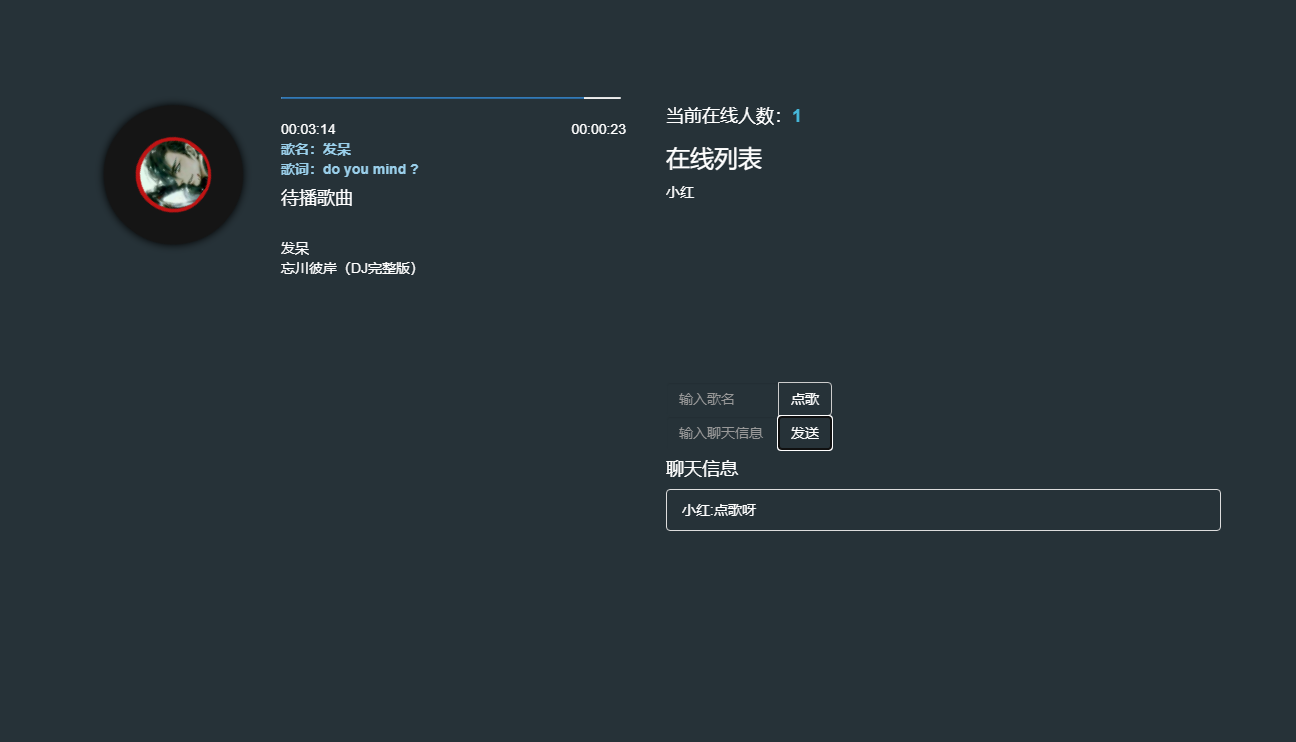
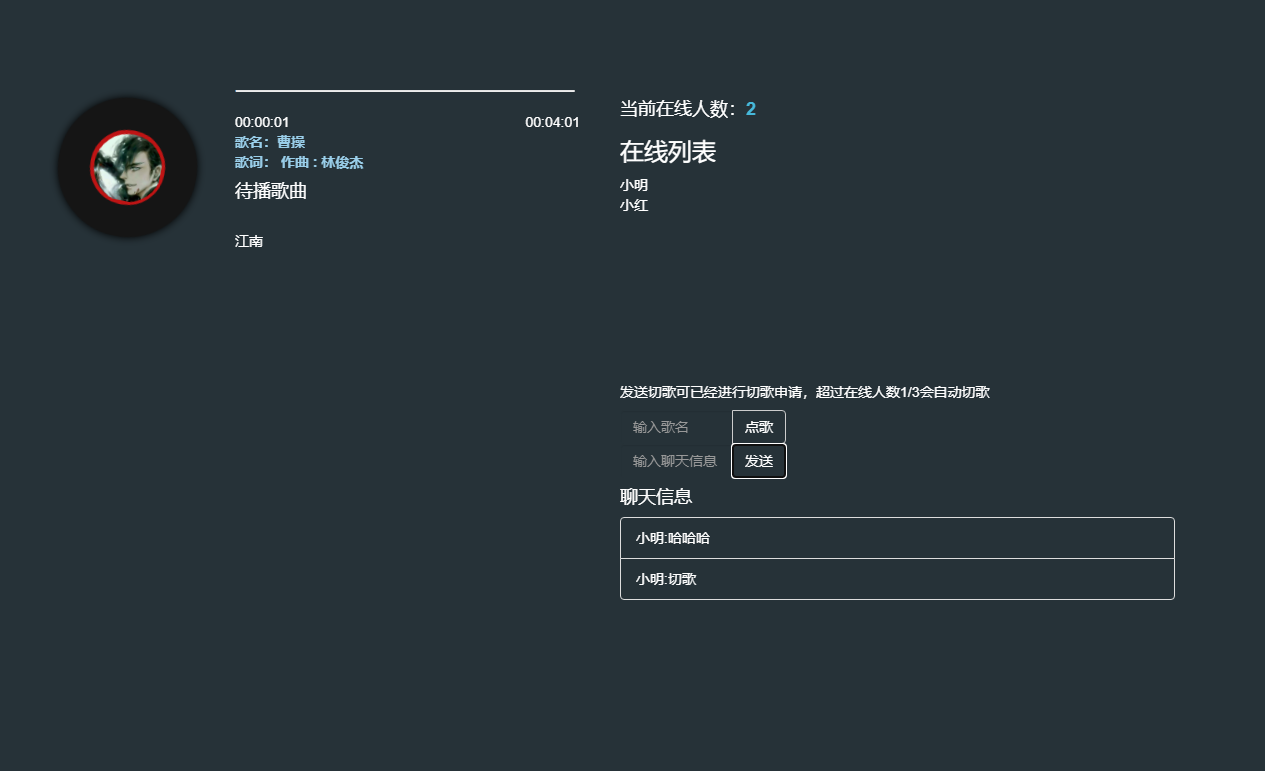
更新

Changed region(s): [[0.0308, 0.093, 0.6166, 0.372], [0.4933, 0.496, 0.9249, 0.7749]]

diff --git a/README.md b/README.md
@@ -6,6 +6,13 @@ Music
 
 使用控制器-》方法的形式去处理websocket客户端消息
 
+功能特性
+============
+- 支持在线点歌
+- 支持多人实时聊天
+- 支持投票切掉当前音乐
+- 无需登录，任何人都可以点歌
+
 使用
 ============
 这里没有去使用redis，使用redis效果应该更好，不想麻烦就直接使用mysql数据库去处理了
